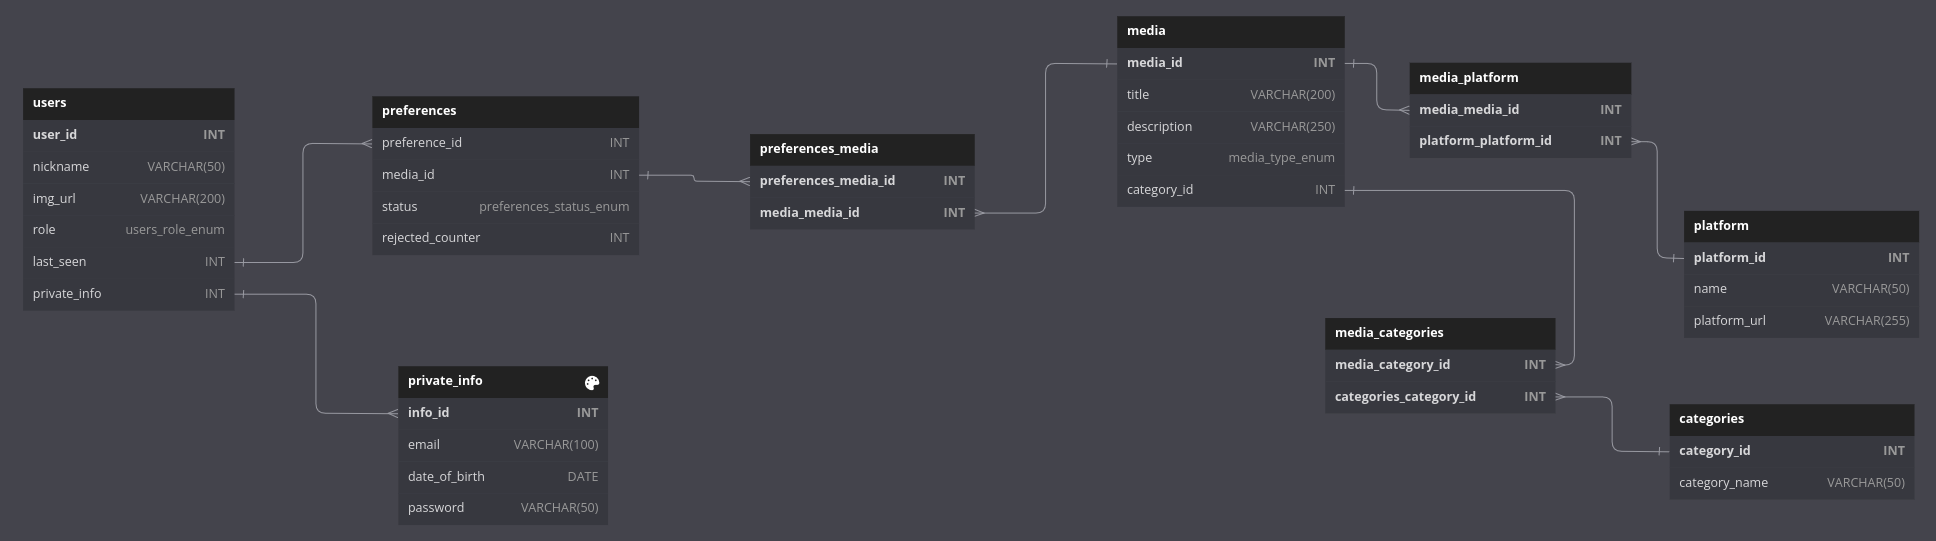
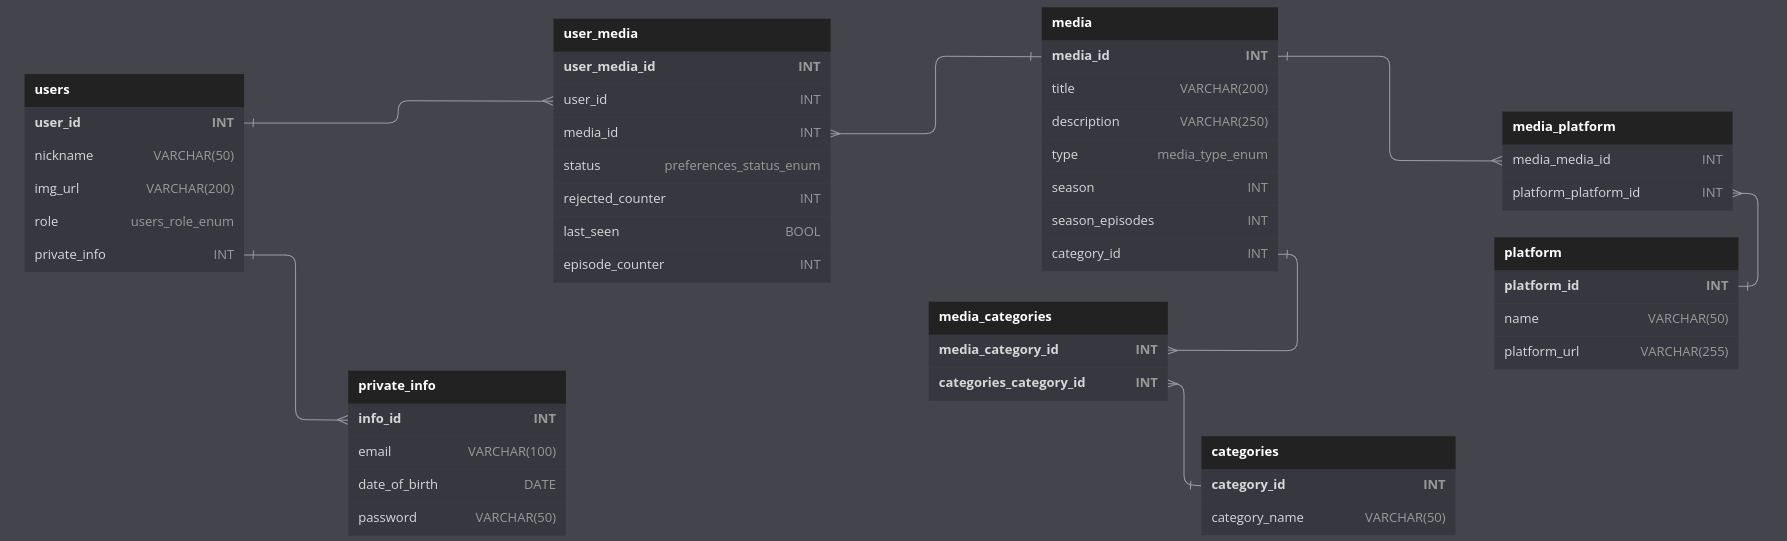
readme

diff --git a/README.md b/README.md
@@ -1,16 +1,17 @@
 # Two-Days-BD
 
 ## Endpoints
+
 ### Auth Endpoints
 
-| METHOD | ENDPOINT     | TOKEN | ROLE | DESCRIPTION           |      PARAMS                                                                           | RETURNS |
+| METHOD | ENDPOINT     | TOKEN | ROLE | DESCRIPTION           | PARAMS                                                                                | RETURNS |
 | ------ | ------------ | ----- | ---- | --------------------- | ------------------------------------------------------------------------------------- | ------- |
 | POST   | /auth/signup | -     | -    | User Sign Up          | user_name, user_nickname, image_url, email, date_of_birth, password, confirm_password | token   |
 | POST   | /auth/login  | -     | -    | Delete skills from DB | email, password                                                                       | token   |
 
 ### Users Endpoints
 
-| METHOD | ENDPOINT                                  | TOKEN | ROLE  | DESCRIPTION                    |      PARAMS       | RETURNS              |
+| METHOD | ENDPOINT                                  | TOKEN | ROLE  | DESCRIPTION                    | PARAMS            | RETURNS              |
 | ------ | ----------------------------------------- | ----- | ----- | ------------------------------ | ----------------- | -------------------- |
 | GET    | /users/all                                | YES   | Admin | Get all users                  | -                 | [{ users }]          |
 | GET    | /user                                     | YES   | All   | Get own user                   | user_id           | { user }             |
@@ -24,73 +25,67 @@
 
 ### Media Endpoints
 
-| METHOD | ENDPOINT                             |  TOKEN | ROLE  | DESCRIPTION      |      PARAMS | RETURNS         |
-| ------ | ----------------------------------   |  ----- | ----- | ---------------- | ----------- | --------------- |
-| GET    | /media                               | YES    | All   | Get all media    | -           | [{ media }]     |
-| POST   | /media                               | YES    | Admin | Create  media    | -           | { media }       |
-| GET    | /media/:mediaId                      | YES    | All   | Get one media    | media_id    | { media }       |
-| PUT    | /media/:mediaId                      | YES    | Admin | Update media     | media_id    | "Media updated" |
-| DELETE | /media/:mediaId                      | YES    | Admin | Remove one media | media_id    | "Media deleted" |
-| GET    | /media/newRandom  		        | YES    | All   | Get random media | media_id    | { media }       |
+| METHOD | ENDPOINT         | TOKEN | ROLE  | DESCRIPTION      | PARAMS   | RETURNS         |
+| ------ | ---------------- | ----- | ----- | ---------------- | -------- | --------------- |
+| GET    | /media           | YES   | All   | Get all media    | -        | [{ media }]     |
+| POST   | /media           | YES   | Admin | Create media     | -        | { media }       |
+| GET    | /media/:mediaId  | YES   | All   | Get one media    | media_id | { media }       |
+| PUT    | /media/:mediaId  | YES   | Admin | Update media     | media_id | "Media updated" |
+| DELETE | /media/:mediaId  | YES   | Admin | Remove one media | media_id | "Media deleted" |
+| GET    | /media/newRandom | YES   | All   | Get random media | media_id | { media }       |
 
 ### Platform Endpoints
 
-| METHOD | ENDPOINT                             |  TOKEN | ROLE  | DESCRIPTION         |      PARAMS | RETURNS            |
-| ------ | ----------------------------------   |  ----- | ----- | ----------------    | ----------- | ---------------    |
-| GET    | /platform                            | YES    | All   | Get all platform    | -           | [{ platform }]     |
-| POST   | /platform                            | YES    | Admin | Create  platform    | -           | { platform }       |
-| GET    | /platform/:platformId                | YES    | Admin | Get one platform    | media_id    | { platform }       |
-| PUT    | /platform/:platformId                | YES    | Admin | Update platform     | media_id    | "Platform updated" |
-| DELETE | /platform/:platformId                | YES    | Admin | Remove one platform | media_id    | "Platform deleted" |
+| METHOD | ENDPOINT              | TOKEN | ROLE  | DESCRIPTION         | PARAMS   | RETURNS            |
+| ------ | --------------------- | ----- | ----- | ------------------- | -------- | ------------------ |
+| GET    | /platform             | YES   | All   | Get all platform    | -        | [{ platform }]     |
+| POST   | /platform             | YES   | Admin | Create platform     | -        | { platform }       |
+| GET    | /platform/:platformId | YES   | Admin | Get one platform    | media_id | { platform }       |
+| PUT    | /platform/:platformId | YES   | Admin | Update platform     | media_id | "Platform updated" |
+| DELETE | /platform/:platformId | YES   | Admin | Remove one platform | media_id | "Platform deleted" |
 
 ### Preferences Endpoints
 
-| METHOD | ENDPOINT                             |  TOKEN | ROLE  | DESCRIPTION         |      PARAMS | RETURNS            |
-| ------ | ----------------------------------   |  ----- | ----- | ----------------    | ----------- | ---------------    |
-| GET    | /platform                            | YES    | All   | Get all platform    | -           | [{ platform }]     |
-| POST   | /platform                            | YES    | Admin | Create  platform    | -           | { platform }       |
-| GET    | /platform/:platformId                | YES    | Admin | Get one platform    | media_id    | { platform }       |
-| PUT    | /platform/:platformId                | YES    | Admin | Update platform     | media_id    | "Platform updated" |
-| DELETE | /platform/:platformId                | YES    | Admin | Remove one platform | media_id    | "Platform deleted" |
-
+| METHOD | ENDPOINT              | TOKEN | ROLE  | DESCRIPTION         | PARAMS   | RETURNS            |
+| ------ | --------------------- | ----- | ----- | ------------------- | -------- | ------------------ |
+| GET    | /platform             | YES   | All   | Get all platform    | -        | [{ platform }]     |
+| POST   | /platform             | YES   | Admin | Create platform     | -        | { platform }       |
+| GET    | /platform/:platformId | YES   | Admin | Get one platform    | media_id | { platform }       |
+| PUT    | /platform/:platformId | YES   | Admin | Update platform     | media_id | "Platform updated" |
+| DELETE | /platform/:platformId | YES   | Admin | Remove one platform | media_id | "Platform deleted" |
 
 ### User_media Endpoints
 
-| METHOD | ENDPOINT                             |  TOKEN | ROLE  | DESCRIPTION         |      PARAMS | RETURNS            |
-| ------ | ----------------------------------   |  ----- | ----- | ----------------    | ----------- | ---------------    |
-| GET    | /user_media                            | YES    | Admin   | Get all user_media    | -           | [{ user_media }]     |
-| GET    | /user_media/:user_mediaId                | YES    | All | Get one user_media    | user_media_id    | { user_media }       |
-| PUT    | /user_media/self                    | YES    | All | Update user_media     | user_media_id    | "user_media updated" |
-| PUT    | /user_media/:user_mediaId                | YES    | Admin | Update user_media     | user_media_id    | "user_media updated" |
-| DELETE | /user_media/:user_mediaId                | YES    | Admin | Remove one user_media | user_media_id    | "user_media deleted" |
-
-
+| METHOD | ENDPOINT                  | TOKEN | ROLE  | DESCRIPTION           | PARAMS        | RETURNS              |
+| ------ | ------------------------- | ----- | ----- | --------------------- | ------------- | -------------------- |
+| GET    | /user_media               | YES   | Admin | Get all user_media    | -             | [{ user_media }]     |
+| GET    | /user_media/:user_mediaId | YES   | All   | Get one user_media    | user_media_id | { user_media }       |
+| PUT    | /user_media/self          | YES   | All   | Update user_media     | user_media_id | "user_media updated" |
+| PUT    | /user_media/:user_mediaId | YES   | Admin | Update user_media     | user_media_id | "user_media updated" |
+| DELETE | /user_media/:user_mediaId | YES   | Admin | Remove one user_media | user_media_id | "user_media deleted" |
 
 ### Category Endpoints
 
-| METHOD | ENDPOINT                             |  TOKEN | ROLE  | DESCRIPTION         |      PARAMS | RETURNS            |
-| ------ | ----------------------------------   |  ----- | ----- | ----------------    | ----------- | ---------------    |
-| GET    | /category                            | YES    | All   | Get all categories    | -           | [{ category }]     |
-| POST    | /category                | YES    | Admin | Creates one category    | category_id    | { category }       |
-| GET    | /category/:categoryId                | YES    | All | Get one category    | category_id    | { category }       |
-| PUT    | /category/:categoryId                | YES    | Admin | Update category     | category_id    | "category updated" |
-| DELETE | /category/:categoryId                | YES    | Admin | Remove one category | category_id    | "category deleted" |
-
-
+| METHOD | ENDPOINT              | TOKEN | ROLE  | DESCRIPTION          | PARAMS      | RETURNS            |
+| ------ | --------------------- | ----- | ----- | -------------------- | ----------- | ------------------ |
+| GET    | /category             | YES   | All   | Get all categories   | -           | [{ category }]     |
+| POST   | /category             | YES   | Admin | Creates one category | category_id | { category }       |
+| GET    | /category/:categoryId | YES   | All   | Get one category     | category_id | { category }       |
+| PUT    | /category/:categoryId | YES   | Admin | Update category      | category_id | "category updated" |
+| DELETE | /category/:categoryId | YES   | Admin | Remove one category  | category_id | "category deleted" |
 
 ### Private_info Endpoints
 
-| METHOD | ENDPOINT                             |  TOKEN | ROLE  | DESCRIPTION         |      PARAMS | RETURNS            |
-| ------ | ----------------------------------   |  ----- | ----- | ----------------    | ----------- | ---------------    |
-| GET    | /private_info                            | YES    | Admin   | Get all categories    | -           | [{ private_info }]     |
-| POST    | /private_info                | YES    | Admin | Creates one private_info    | private_info_id    | { private_info }       |
-| GET    | /private_info/self                | YES    | All | Get one private_info    | private_info_id    | { private_info }       |
-| GET    | /private_info/:userId                | YES    | Admin | Get one private_info    | private_info_id    | { private_info }       |
-| PUT    | /private_info/self                | YES    | All | Update self private_info     | private_info_id    | "private_info updated" |
-| DELETE | /private_info/self                | YES    | All | Remove self private_info | private_info_id    | "private_info deleted" |
-| PUT    | /private_info/:private_infoId                | YES    | Admin | Update private_info     | private_info_id    | "private_info updated" |
-| DELETE | /private_info/:private_infoId                | YES    | Admin | Remove one private_info | private_info_id    | "private_info deleted" |
-
+| METHOD | ENDPOINT                      | TOKEN | ROLE  | DESCRIPTION              | PARAMS          | RETURNS                |
+| ------ | ----------------------------- | ----- | ----- | ------------------------ | --------------- | ---------------------- |
+| GET    | /private_info                 | YES   | Admin | Get all categories       | -               | [{ private_info }]     |
+| POST   | /private_info                 | YES   | Admin | Creates one private_info | private_info_id | { private_info }       |
+| GET    | /private_info/self            | YES   | All   | Get one private_info     | private_info_id | { private_info }       |
+| GET    | /private_info/:userId         | YES   | Admin | Get one private_info     | private_info_id | { private_info }       |
+| PUT    | /private_info/self            | YES   | All   | Update self private_info | private_info_id | "private_info updated" |
+| DELETE | /private_info/self            | YES   | All   | Remove self private_info | private_info_id | "private_info deleted" |
+| PUT    | /private_info/:private_infoId | YES   | Admin | Update private_info      | private_info_id | "private_info updated" |
+| DELETE | /private_info/:private_infoId | YES   | Admin | Remove one private_info  | private_info_id | "private_info deleted" |
 
 ## Analisis
 
@@ -124,7 +119,6 @@ Problema :
 
 #### Provisional
 
-<img src="./image.png" width="50%">
 <img src="./image2.png" width="100%">
 
 ---
